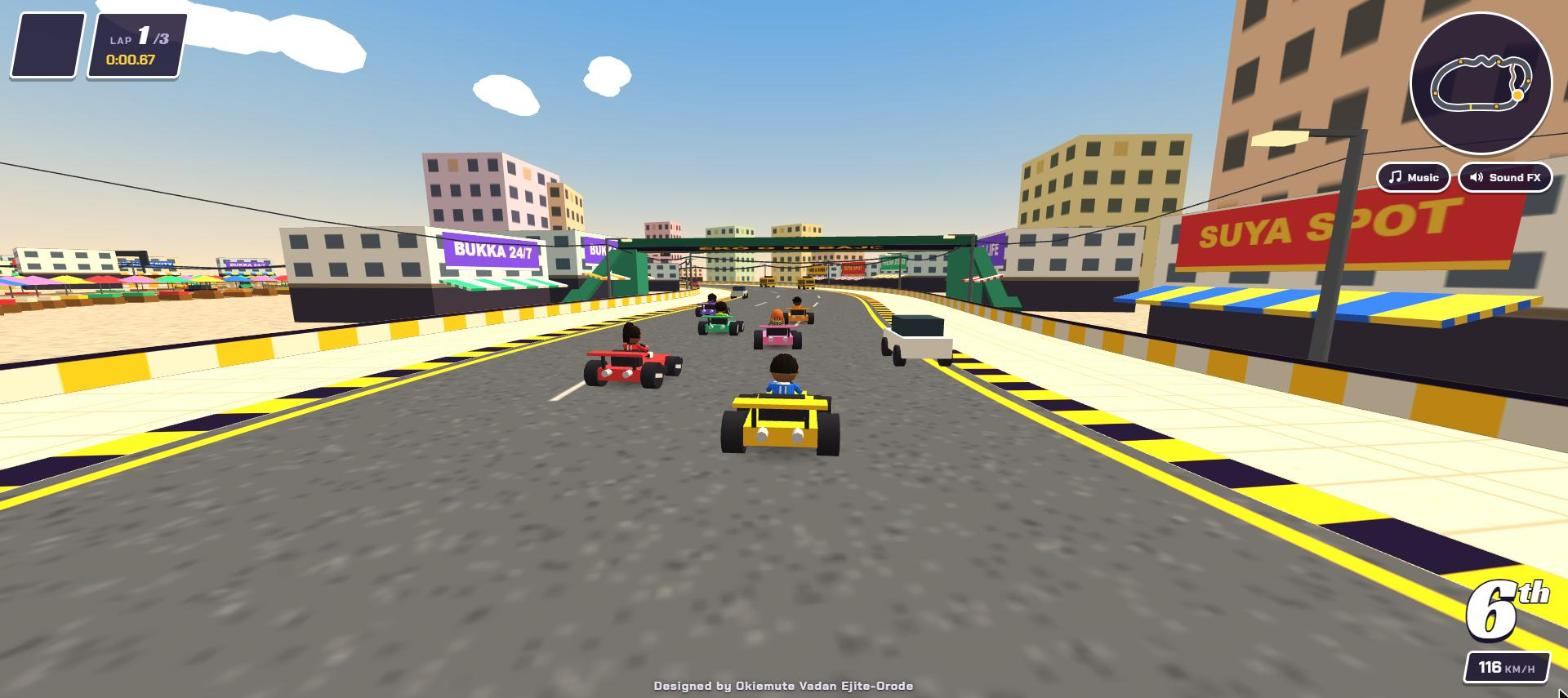
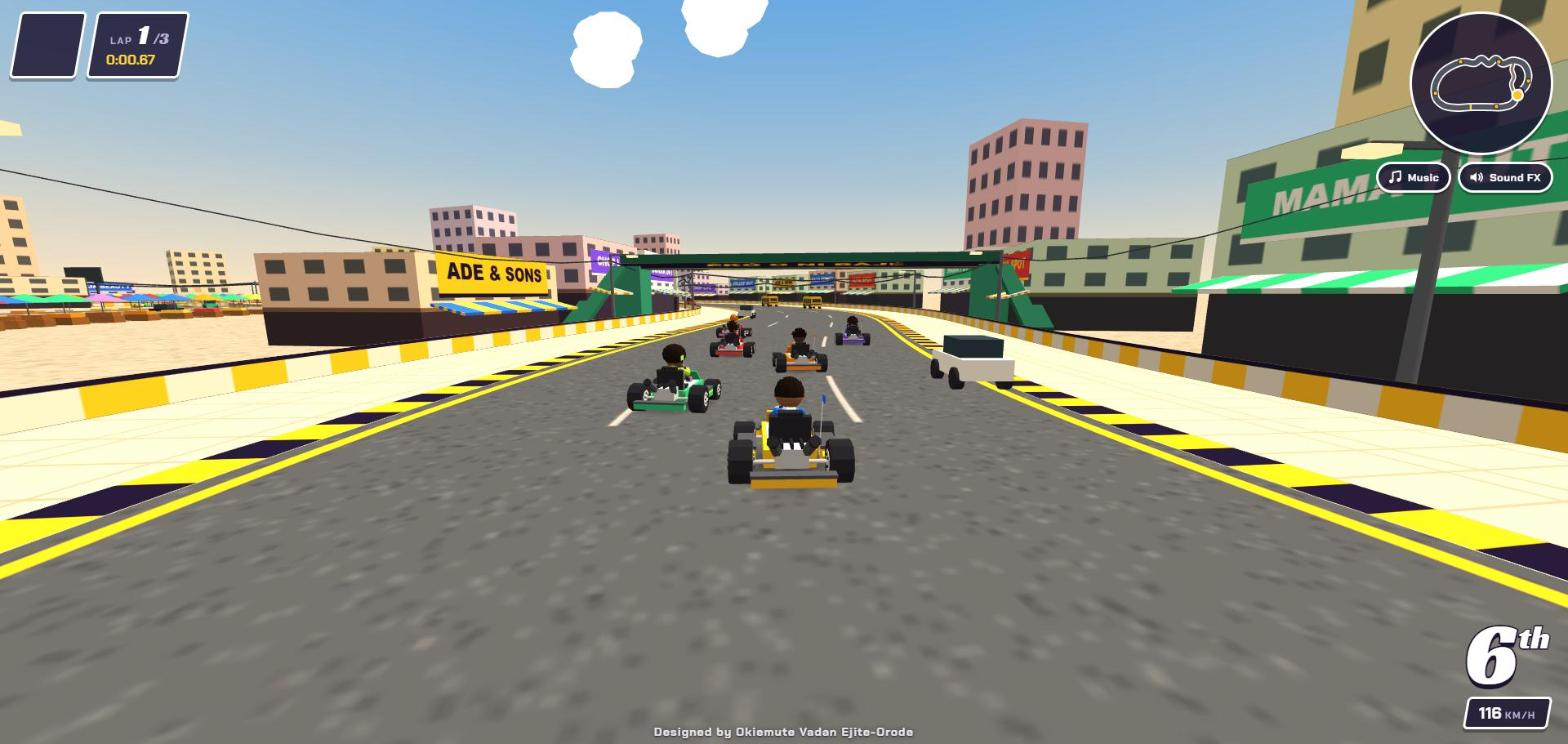
Restyle the karts as low-poly sports karts
- Two-tone side pods, a raised nose panel, a wraparound front bumper,
  a tall seat, an engine with twin exhausts and a whip aerial
- Chunky faceted tyres with bolted hubs
- Each kart in its driver's kart colour with an outfit-colour stripe;
  size, wheel positions and handling unchanged
- Boost flames come out of the new exhaust tips
- Retaken README screenshots

diff --git a/index.html b/index.html
@@ -5220,32 +5220,84 @@ const PORTRAITS = (() => {
 // the driver's colour dot in the menus, with their portrait when there is one
 const driverDot = i => `<i class="face" style="background:${hexCss(ROSTER[i].color)}${PORTRAITS[i] ? ` url(${PORTRAITS[i]}) center / cover` : ''}"></i>`;
 
+// shared kart materials: dark grey caps on the bodywork, and the light cockpit tub
+const capMat = lambert({ color: 0x484c58 });
+const tubMat = lambert({ color: 0xd3d7e2 });
+
+// A low-poly sports kart: two-tone side pods, a raised nose panel, a wraparound front bumper, an
+// engine with twin exhausts behind the seat, and chunky faceted tyres. Painted in the driver's kart
+// colour, with a stripe in their outfit colour.
 function makeKartMesh(def) {
   const group = new THREE.Group(), body = new THREE.Group();
   group.rotation.order = 'YXZ';
   group.add(body);
-  const paint = lambert({ color: def.color });
-  const add = (geo, mat, x, y, z, parent = body) => { const m = new THREE.Mesh(geo, mat); m.position.set(x, y, z); parent.add(m); return m; };
-  add(new THREE.BoxGeometry(1.7, 0.45, 2.9), paint, 0, 0.55, 0);
-  add(new THREE.BoxGeometry(1.2, 0.35, 0.9), paint, 0, 0.55, 1.75);
-  add(new THREE.BoxGeometry(2.1, 0.25, 0.45), darkMat, 0, 0.42, 2.2);
-  add(new THREE.BoxGeometry(2.3, 0.3, 1.0), darkMat, 0, 0.45, -0.1);
-  add(new THREE.BoxGeometry(1.1, 0.6, 0.35), darkMat, 0, 1.05, -0.8);
-  const column = add(new THREE.CylinderGeometry(0.035, 0.035, 0.72, 6), darkMat, 0, 1.0, 0.73); // steering column
+  const paint = lambert({ color: def.color }), trim = lambert({ color: def.look.top });
+  const add = (geo, mat, x, y, z, parent = body) => { const m = new THREE.Mesh(facet(geo), mat); m.position.set(x, y, z); parent.add(m); return m; };
+  const box = (w, h, d, mat, x, y, z) => add(new THREE.BoxGeometry(w, h, d), mat, x, y, z);
+  const tube = (a, b, r, mat, sides = 7) => { const m = new THREE.Mesh(facet(new THREE.CylinderGeometry(r, r, 1, sides)), mat); setLimb(m, a, b); body.add(m); return m; };
+
+  // cockpit tub the driver sits in, and the seat
+  box(1.2, 0.42, 2.5, paint, 0, 0.54, 0.25);
+  box(1.0, 0.03, 1.5, tubMat, 0, 0.765, 0.45); // floor plate
+  box(0.9, 0.12, 0.7, darkMat, 0, 0.81, -0.45);
+  box(0.95, 0.78, 0.16, darkMat, 0, 1.1, -0.78).rotation.x = -0.15;
+  box(0.55, 0.1, 0.18, darkMat, 0, 1.55, -0.86).rotation.x = -0.15; // headrest bar
+  const column = add(new THREE.CylinderGeometry(0.035, 0.035, 0.72, 6), metalMat, 0, 1.0, 0.73); // steering column
   column.rotation.x = -0.86;
-  add(new THREE.BoxGeometry(2.1, 0.1, 0.5), paint, 0, 1.35, -1.5);
-  add(new THREE.BoxGeometry(0.1, 0.55, 0.1), darkMat, 0.6, 1.05, -1.45);
-  add(new THREE.BoxGeometry(0.1, 0.55, 0.1), darkMat, -0.6, 1.05, -1.45);
-  for (const x of [-0.4, 0.4]) {
-    const ex = add(new THREE.CylinderGeometry(0.13, 0.13, 0.45, 8), metalMat, x, 0.65, -1.55);
-    ex.rotation.x = Math.PI / 2;
+
+  // side pods: colour below, a grey cap on top, the outfit stripe along the side
+  for (const s of [-1, 1]) {
+    box(0.42, 0.28, 1.1, paint, s * 0.98, 0.46, 0.1);
+    box(0.46, 0.08, 1.16, capMat, s * 0.98, 0.63, 0.1);
+    box(0.38, 0.2, 0.18, paint, s * 0.98, 0.42, 0.72).rotation.x = 0.45; // bevelled ends
+    box(0.38, 0.2, 0.18, paint, s * 0.98, 0.42, -0.52).rotation.x = -0.45;
+    box(0.02, 0.06, 1.0, trim, s * 1.2, 0.5, 0.1);
   }
+  // raised nose panel in front of the wheel, with the stripe down its middle
+  const nose = box(0.95, 0.06, 1.25, paint, 0, 0.82, 1.42); nose.rotation.x = 0.62;
+  const stripe = box(0.14, 0.065, 1.25, trim, 0, 0.825, 1.42); stripe.rotation.x = 0.62;
+  // wraparound front bumper
+  box(1.9, 0.2, 0.28, paint, 0, 0.36, 2.06);
+  box(1.94, 0.07, 0.32, capMat, 0, 0.49, 2.06);
+  for (const s of [-1, 1]) {
+    box(0.26, 0.2, 0.42, paint, s * 0.84, 0.36, 1.86).rotation.y = s * 0.35;
+    box(0.3, 0.07, 0.46, capMat, s * 0.84, 0.49, 1.86).rotation.y = s * 0.35;
+  }
+  // rear bumper, axles
+  box(1.75, 0.2, 0.24, paint, 0, 0.4, -1.98);
+  box(1.79, 0.07, 0.28, capMat, 0, 0.53, -1.98);
+  tube(new V3(-1.1, 0.5, -1.05), new V3(1.1, 0.5, -1.05), 0.05, metalMat, 6);
+  tube(new V3(-1.05, 0.42, 1.15), new V3(1.05, 0.42, 1.15), 0.045, metalMat, 6);
+  // engine behind the seat, with cooling fins and twin exhausts angled up and back
+  box(0.72, 0.42, 0.5, metalMat, 0, 0.72, -1.3);
+  for (const x of [-0.22, 0, 0.22]) box(0.06, 0.12, 0.46, darkMat, x, 0.99, -1.3);
+  for (const s of [-1, 1]) {
+    tube(new V3(s * 0.3, 0.8, -1.38), new V3(s * 0.42, 1.18, -1.88), 0.12, capMat);
+    tube(new V3(s * 0.42, 1.18, -1.88), new V3(s * 0.44, 1.24, -1.96), 0.13, darkMat);
+  }
+  // a whip aerial with a pennant in the outfit colour
+  tube(new V3(-0.62, 0.7, -1.2), new V3(-0.66, 2.1, -1.32), 0.012, tubMat, 4);
+  box(0.02, 0.16, 0.3, trim, -0.66, 2.02, -1.47);
+
+  // chunky tyres with bolted hubs
   const wheels = [];
   for (const [x, z, r] of [[-1.05, 1.15, 0.42], [1.05, 1.15, 0.42], [-1.1, -1.05, 0.5], [1.1, -1.05, 0.5]]) {
-    const wgeo = new THREE.CylinderGeometry(r, r, 0.5, 14).rotateZ(Math.PI / 2);
-    const w = add(wgeo, darkMat, x, r, z);
+    const w = new THREE.Group();
+    w.add(new THREE.Mesh(facet(new THREE.CylinderGeometry(r, r, 0.46, 10).rotateZ(Math.PI / 2)), darkMat));
+    w.add(new THREE.Mesh(facet(new THREE.CylinderGeometry(r * 0.94, r * 0.94, 0.52, 10).rotateZ(Math.PI / 2)), darkMat));
+    w.add(new THREE.Mesh(facet(new THREE.CylinderGeometry(r * 0.55, r * 0.55, 0.54, 8).rotateZ(Math.PI / 2)), metalMat));
+    for (let k = 0; k < 5; k++) {
+      const a = k / 5 * TAU;
+      for (const s of [-1, 1]) {
+        const bolt = new THREE.Mesh(new THREE.BoxGeometry(0.03, 0.06, 0.06), darkMat);
+        bolt.position.set(s * 0.28, Math.cos(a) * r * 0.3, Math.sin(a) * r * 0.3);
+        w.add(bolt);
+      }
+    }
+    mergeStatic(w, []);
+    w.position.set(x, r, z);
     w.rotation.order = 'YXZ';
-    add(new THREE.BoxGeometry(0.54, r * 1.3, 0.16), metalMat, 0, 0, 0, w);
+    body.add(w);
     wheels.push(w);
   }
   mergeStatic(body, wheels); // one mesh per colour instead of ~25 parts; the wheels still turn
@@ -5301,7 +5353,7 @@ function nameTag(text, color) {
 
 // spec (online only): one { def, id, name } per grid slot, front row first; id is null for computer rivals
 function buildGrid(spec) {
-  const shared = new Set([darkMat, metalMat, shadowMat]);
+  const shared = new Set([darkMat, metalMat, shadowMat, capMat, tubMat]);
   for (const k of karts) {
     scene.remove(k.mesh.group);
     k.mesh.group.traverse(o => {
@@ -6263,7 +6315,7 @@ function updateKartVisual(k, dt) {
   }
   if (k.boost > 0) {
     for (const x of [-0.4, 0.4]) {
-      m.body.localToWorld(tmpV.set(x, 0.65, -1.85));
+      m.body.localToWorld(tmpV.set(x * 1.1, 1.24, -1.98)); // out of the exhaust tips
       const bx = -Math.sin(k.h) * 8, bz = -Math.cos(k.h) * 8;
       emit(sparks, tmpV.x, tmpV.y, tmpV.z, bx + rand(-1, 1), rand(0, 1.5), bz + rand(-1, 1), Math.random() < 0.5 ? 0xFF8A1F : 0xFFD23F, 0.22, 0.9);
     }
